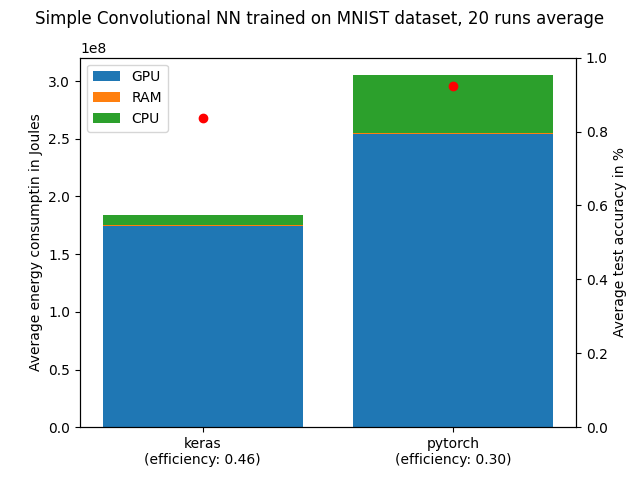
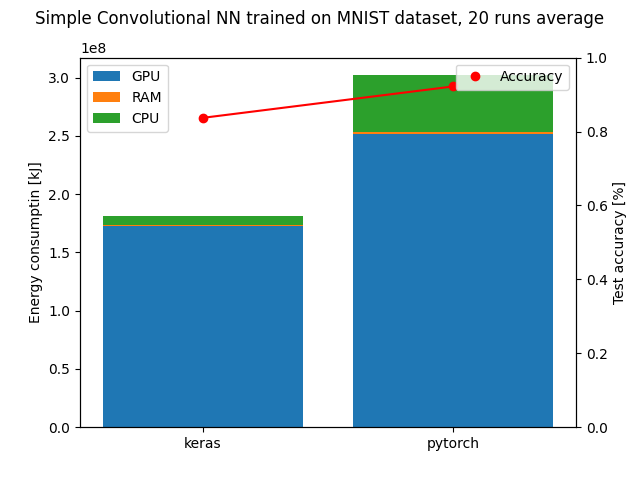
also adjusted and remade comparing plots for first two experiments

diff --git a/calculations.py b/calculations.py
@@ -85,14 +85,14 @@ def plot_compare_energy_and_acc(title, labels, avg_energy_list, avg_error_list, 
     ax2 = ax1.twinx()
     fig.suptitle(title)
     l = []
-    l.append(ax1.set_ylabel("Average energy consumptin in Joules"))
-    l.append(ax2.set_ylabel("Average test accuracy in %"))
+    l.append(ax1.set_ylabel("Energy consumptin [kJ]"))
+    l.append(ax2.set_ylabel("Test accuracy [%]"))
     ax2.set_ylim(0, 1)
     ax1.bar(labels, [x[0] for x in avg_energy_list], yerr=[x[0] for x in avg_error_list], label="GPU")
     ax1.bar(labels, [x[1] for x in avg_energy_list], yerr=[x[1] for x in avg_error_list], bottom=[x[0] for x in avg_energy_list], label="RAM")
     ax1.bar(labels, [x[2] for x in avg_energy_list], yerr=[x[2] for x in avg_error_list], bottom=[(x[0]+x[1]) for x in avg_energy_list], label="CPU")
-    ax1.plot([(x[0]+x[1]+x[2]) for x in avg_energy_list], 'yo', label="Total energy")
-    ax1.plot([(x[0]+x[1]+x[2]) for x in avg_energy_list], 'y')
+    # ax1.plot([(x[0]+x[1]+x[2]) for x in avg_energy_list], 'yo', label="Total energy")
+    # ax1.plot([(x[0]+x[1]+x[2]) for x in avg_energy_list], 'y')
     ax2.plot([x/100 for x in avg_acc_list], 'ro')
     if show_line:
         ax2.plot([x/100 for x in avg_acc_list], 'r')
@@ -163,11 +163,11 @@ def eval_data_load_exp():
         print("-----------------------------------------------------")
 
     labels = [f'keras {(i+1)*10}\nefficiency: {keras_data_loads[i].efficiency:.2f}' for i in range(10)]
-    plot_compare_energy_and_acc(f"Simple Convolutional NN trained on MNIST dataset, {keras_data.reps} runs average", labels, 
-                               [keras_data_loads[i].energy_avg for i in range(10)], 
-                               [keras_data_loads[i].energy_std for i in range(10)], 
-                               [keras_data_loads[i].acc_avg for i in range(10)],
-                               True)
+    # plot_compare_energy_and_acc(f"Simple Convolutional NN trained on MNIST dataset, {keras_data.reps} runs average", labels, 
+    #                            [keras_data_loads[i].energy_avg for i in range(10)], 
+    #                            [keras_data_loads[i].energy_std for i in range(10)], 
+    #                            [keras_data_loads[i].acc_avg for i in range(10)],
+    #                            True)
     # plt.savefig("./efficiency_comparison.png")
 
     for i in range(10):
@@ -236,13 +236,13 @@ paths = ['dump/', 'MNIST_CNN/1/', 'MNIST_CNN/2/', 'MNIST_CNN/3/']
 titles = ['nvml:nvidia_geforce_gtx_970_0', 'rapl:ram', 'rapl:cores', 'rapl:pkg']
 
 keras_data = ExperimentData('keras', 20, 12)
-keras_data.set_energy_data(paths[2], 180)
-keras_data.set_acc_data(paths[2])
+keras_data.set_energy_data(paths[1], 180)
+keras_data.set_acc_data(paths[1])
 keras_data.set_efficiency_data()
 
 pytorch_data = ExperimentData('pytorch', 20, 12)
-pytorch_data.set_energy_data(paths[2], 180)
-pytorch_data.set_acc_data(paths[2])
+pytorch_data.set_energy_data(paths[1], 180)
+pytorch_data.set_acc_data(paths[1])
 pytorch_data.set_efficiency_data()
 
 keras_data_loads = eval_data_load_exp()
@@ -255,12 +255,14 @@ pytorch_data.print_data()
 
 # barplot_energy("title", keras_energy, reps)
 
-# labels = [f'keras\n(efficiency: {keras_data.efficiency:.2f})', f'pytorch\n(efficiency: {pytorch_data.efficiency:.2f})']
-# plot_compare_energy_and_acc(f"Simple Convolutional NN trained on MNIST dataset, {keras_data.reps} runs average",
-#                             labels,
-#                             [keras_data.energy_avg, pytorch_data.energy_avg],
-#                             [keras_data.energy_std, pytorch_data.energy_std],
-#                             [keras_data.acc_avg, pytorch_data.acc_avg])
+labels = [f'keras\n(efficiency: {keras_data.efficiency:.2f})', f'pytorch\n(efficiency: {pytorch_data.efficiency:.2f})']
+labels = ['keras', 'pytorch']
+plot_compare_energy_and_acc(f"Simple Convolutional NN trained on MNIST dataset, {keras_data.reps} runs average",
+                            labels,
+                            [keras_data.energy_avg, pytorch_data.energy_avg],
+                            [keras_data.energy_std, pytorch_data.energy_std],
+                            [keras_data.acc_avg, pytorch_data.acc_avg],
+                            True)
 
 plot_watts(f"Simple {keras_data.name} Convolutional NN trained on MNIST dataset, {keras_data.reps} runs", titles, keras_data.watts, keras_data.reps, 160)
 plot_watts(f"Simple {pytorch_data.name} Convolutional NN trained on MNIST dataset, {keras_data.reps} runs", titles, pytorch_data.watts, pytorch_data.reps, 160)
